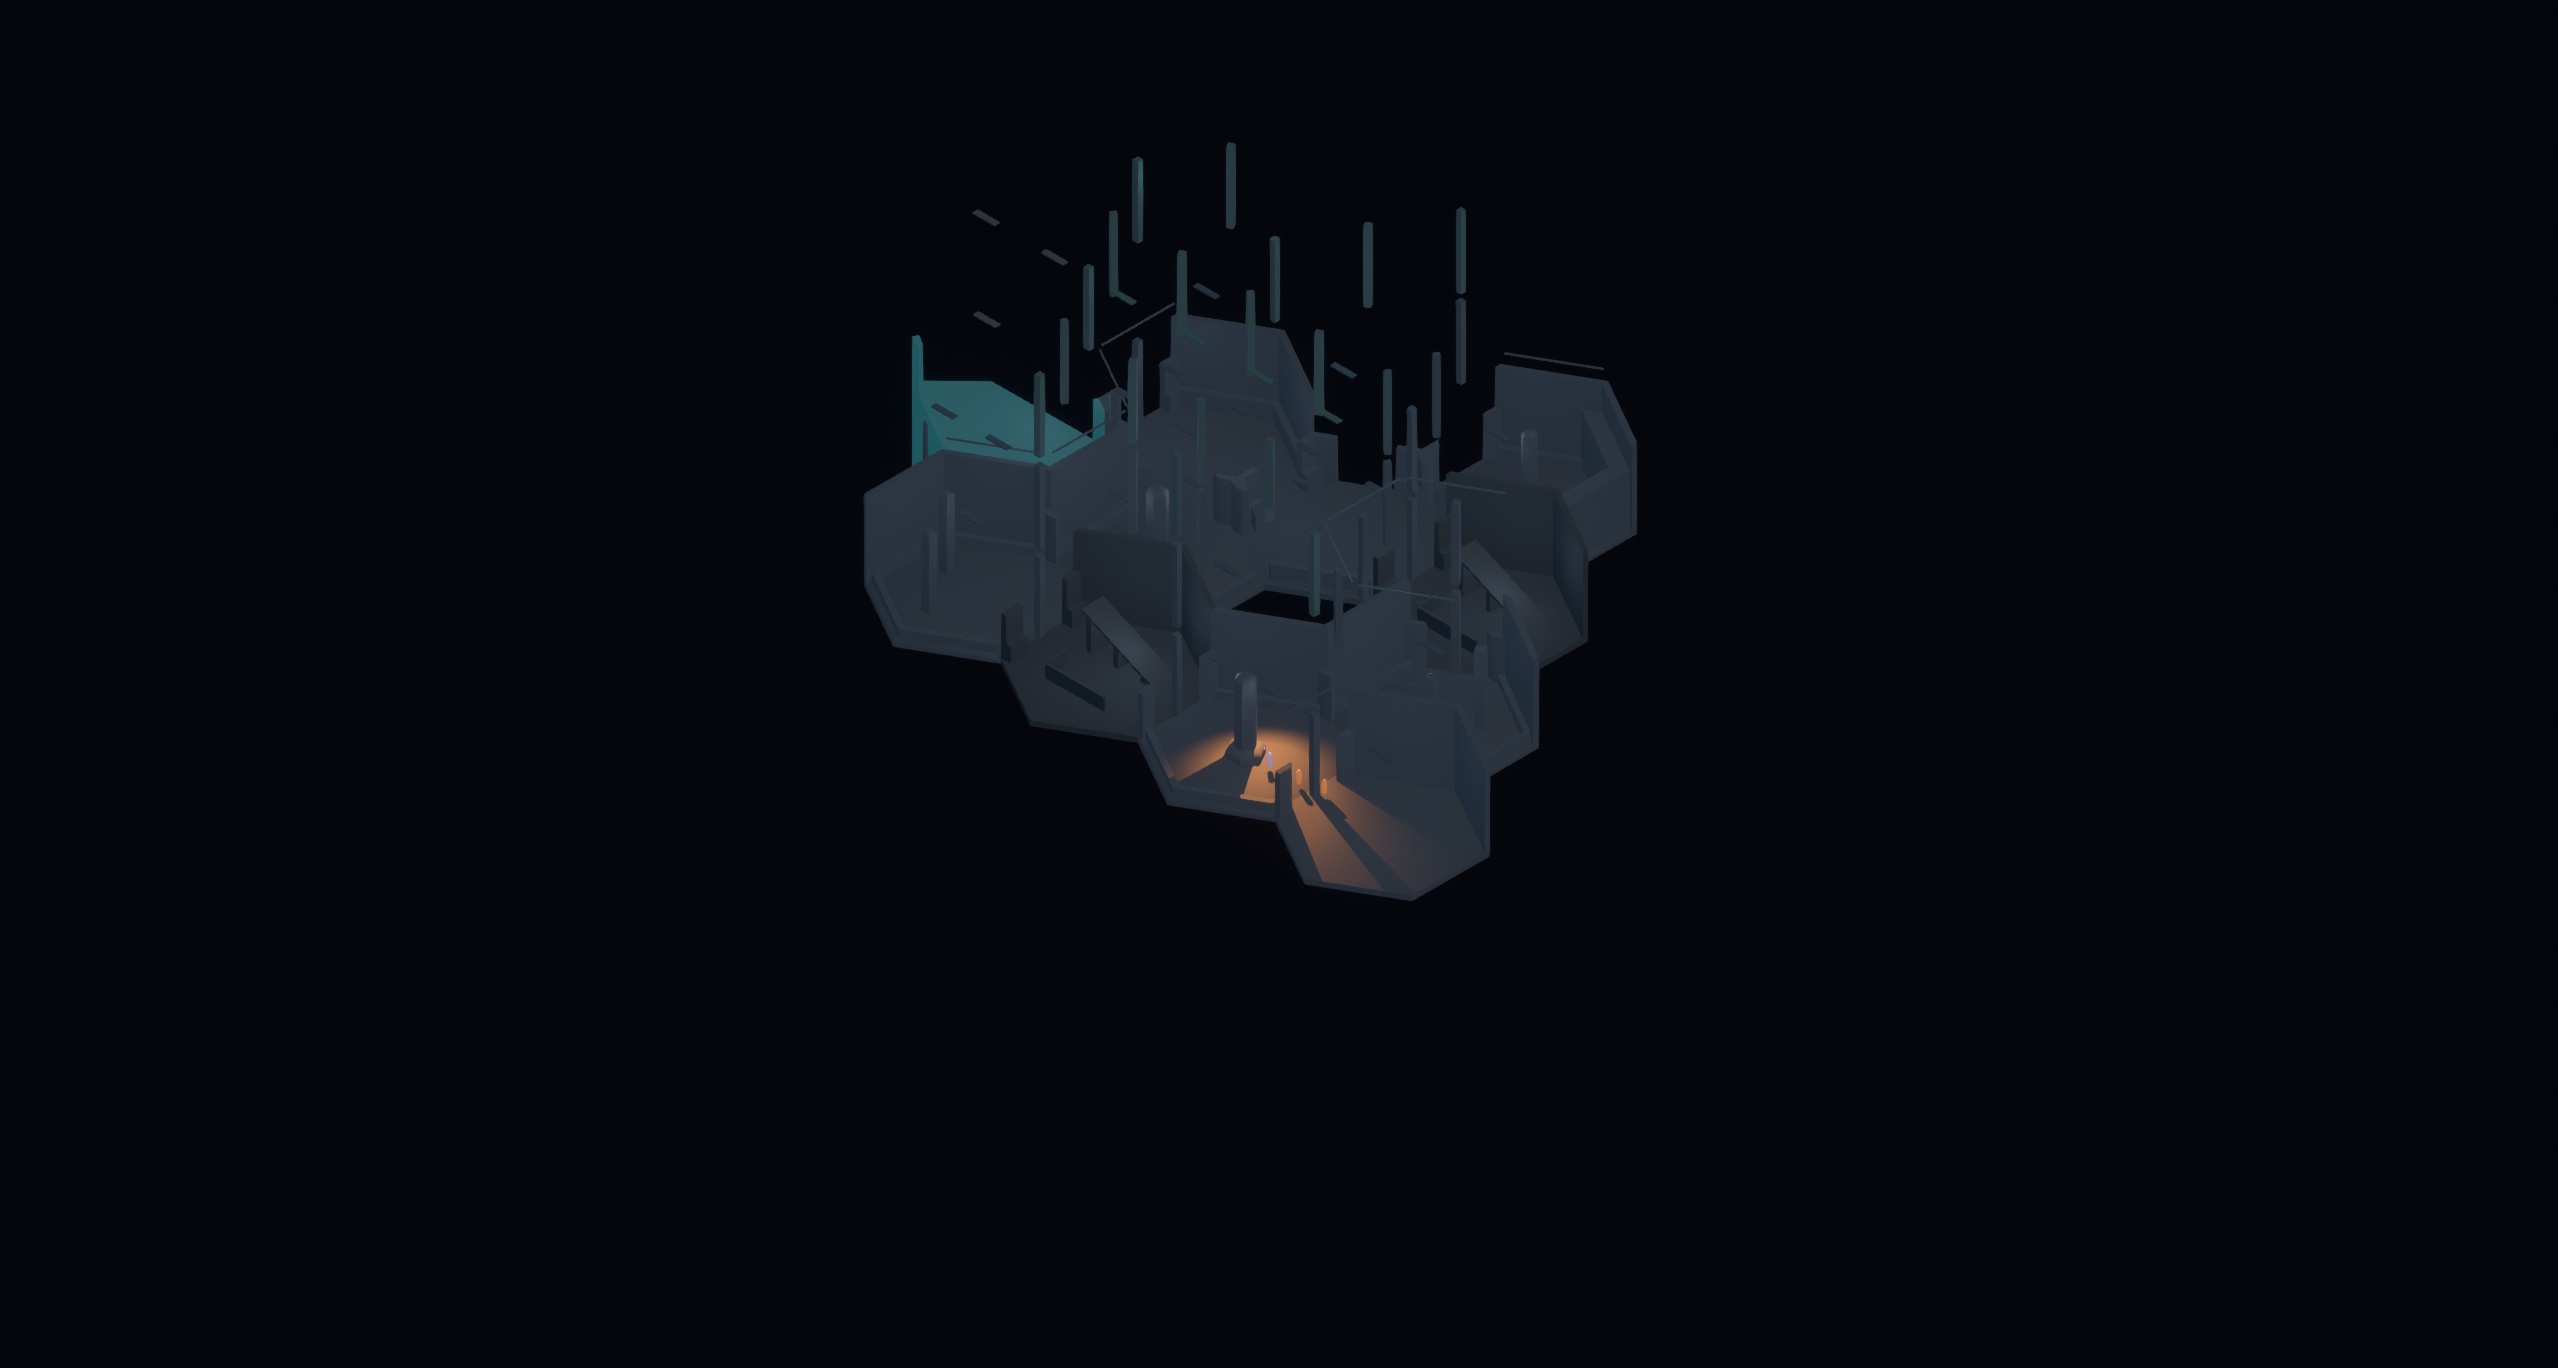
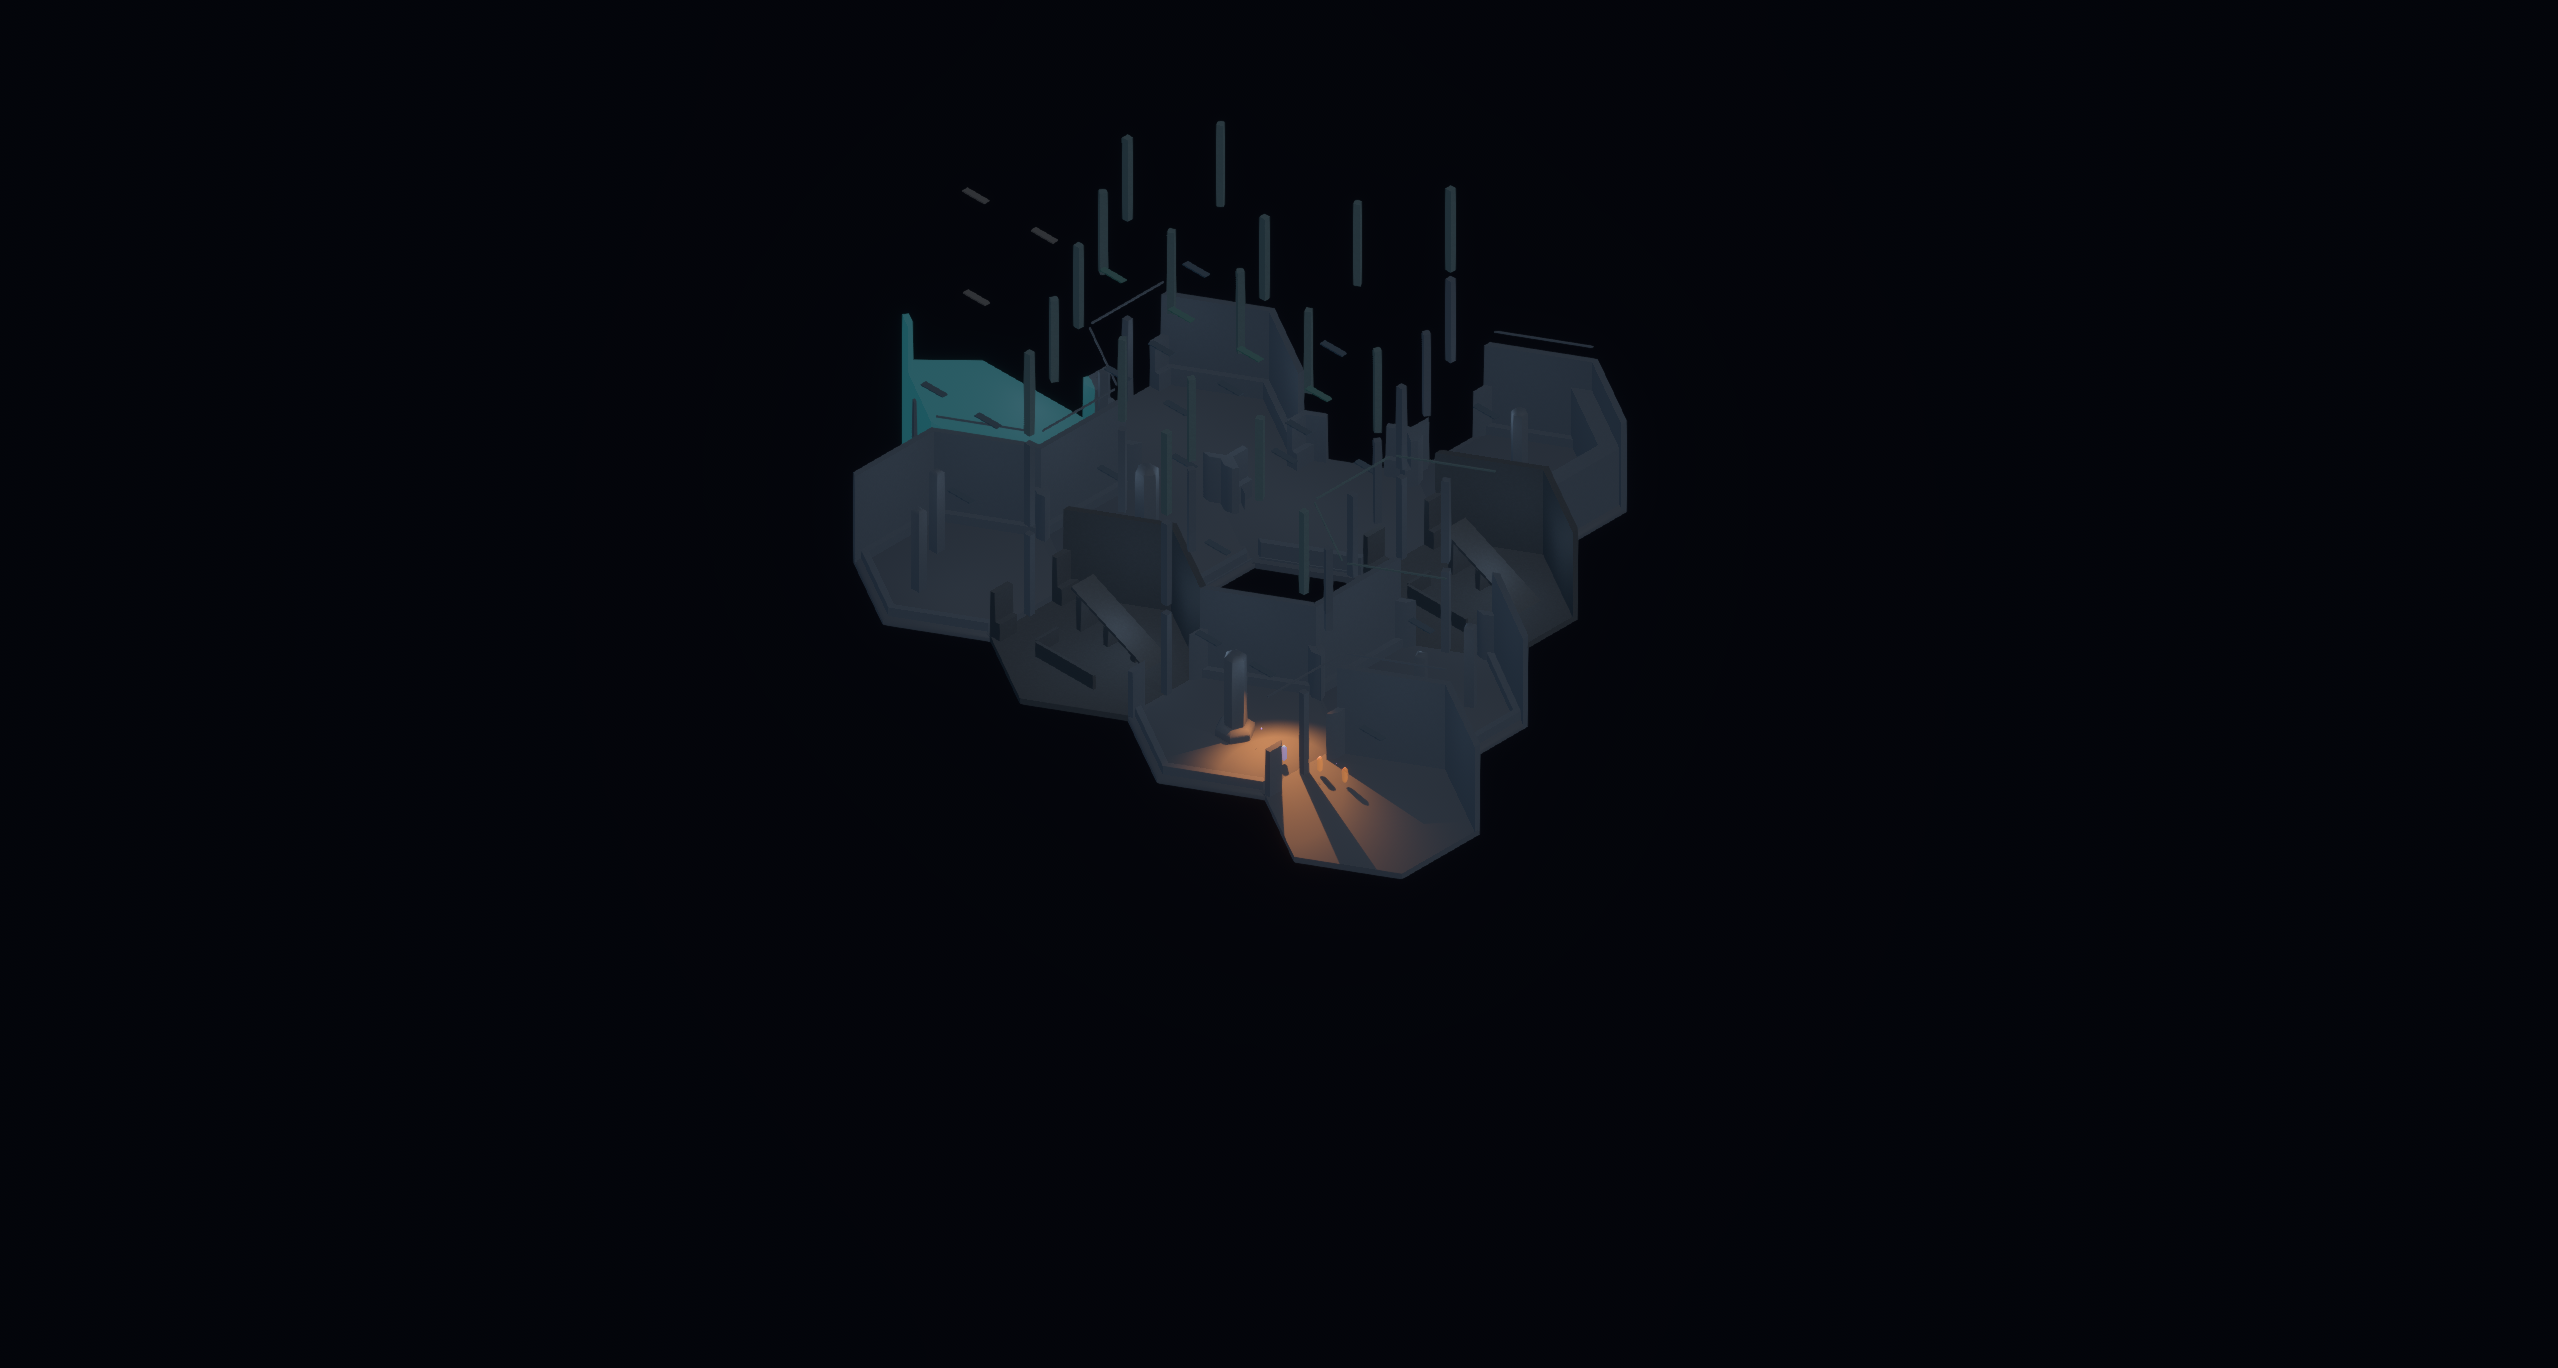
fix(hex): stop the ghost lights, and snap the view to the body's tile
**Ghost lights.** Only hulls were being filtered, never practicals, so every
resident cell's lights kept burning whatever storey they were on - and with
their geometry hidden they read as lights floating in the dark outside the
building. They are now judged by world height against the same band the hulls
use.

By height and not by cell, deliberately: a two-level tile's upper practical
carries the *base* cell, so a by-cell test would leave exactly the ghosts it was
meant to remove.

This also corrects something I got wrong earlier. The scattered dots in the
first overview captures were written off as facility-wide markers; they were
these, and that misreading cost a wrong guess during the framing hunt. The note
in docs/evidence/spectate/README.md is updated.

**Snap to the tile.** The view framed the body's own position, so a walking body
slid the whole facility under a fixed camera - unreadable at this scale and
unpleasant to watch. It now frames the centre of the body's cell, so the view
holds still while the body crosses a tile and steps once when the body does.

The spectate systems are grouped into their own tuple; the flat one had reached
Bevy's 21-system limit, and they are one concern anyway.

Keys are now documented in the README: O toggles, F cycles the body, R rotates a
detent, [ and ] dial the radius.

Still open: the thin verticals at the far side, which `5ffe59e` established are
low geometry on the body's own storey stranded by the cutaway, not bleed from
[…]

diff --git a/game/src/hex_wfc/view/spectate.rs b/game/src/hex_wfc/view/spectate.rs
@@ -328,10 +328,7 @@ pub(in crate::hex_wfc) fn sync_cutaway(
     // a wall on the floor above that dips a few centimetres into this one was
     // kept whole, which left thin stubs hanging in the air over the plan. The
     // midpoint puts each hull in exactly one storey.
-    let band = overview.active.then(|| {
-        let floor = f32::from(runtime.local().cell.level) * observed_hex::TILE_LEVEL_HEIGHT;
-        (floor, floor + observed_hex::TILE_LEVEL_HEIGHT)
-    });
+    let band = overview.active.then(|| storey(runtime.local().cell.level));
     for (hull, mut visibility) in &mut hulls {
         let off_level = band.is_some_and(|(low, high)| {
             let middle = (hull.min_y + hull.max_y) * 0.5 + hull.origin_y;
@@ -422,6 +419,57 @@ pub(in crate::hex_wfc) fn trace_cutaway(
     info!(
         "cutaway: floor={floor} ceiling={ceiling} interior={interior} near={near} far={far}          min_y={lowest:.2} max_y={highest:.2} | drawn={drawn}          from_other_level={from_other_level} high_in_band={high_in_band} body_level={body_level}"
     );
+}
+
+/// Hide the practicals that belong to storeys the overview is not drawing.
+///
+/// Lights were never filtered, only hulls, so every resident cell's practicals
+/// kept burning whatever storey they were on - and with their geometry hidden
+/// they read as lights floating in the dark outside the building. They are
+/// judged by world height against the same band the hulls use, not by their
+/// cell: a two-level tile's upper practical carries the *base* cell, so a
+/// by-cell test would leave exactly the ghosts it was meant to remove.
+pub(in crate::hex_wfc) fn sync_practicals(
+    runtime: Res<HexWfcRuntime>,
+    overview: Res<SpectatorOverview>,
+    mut practicals: Query<(&GlobalTransform, &mut Visibility), With<super::HexPractical>>,
+) {
+    let band = overview.active.then(|| storey(runtime.local().cell.level));
+    for (transform, mut visibility) in &mut practicals {
+        let wanted = match band {
+            Some((low, high)) => {
+                let y = transform.translation().y;
+                if y >= low && y < high {
+                    Visibility::Inherited
+                } else {
+                    Visibility::Hidden
+                }
+            }
+            None => Visibility::Inherited,
+        };
+        if *visibility != wanted {
+            *visibility = wanted;
+        }
+    }
+}
+
+/// The centre of a cell, in world space.
+///
+/// The overview frames *this* rather than the body's own position. Following a
+/// walking body means the whole facility slides continuously under a fixed
+/// camera, which is unreadable at this scale and unpleasant to watch; snapping
+/// to the tile means the view holds still while the body crosses it and steps
+/// once when the body does.
+#[must_use]
+pub(in crate::hex_wfc) fn tile_centre(cell: observed_facility::hex_wfc::HexCoord) -> Vec3 {
+    Vec3::from_array(hex_origin(cell))
+}
+
+/// The world height band a storey occupies.
+#[must_use]
+pub(in crate::hex_wfc) fn storey(level: u8) -> (f32, f32) {
+    let floor = f32::from(level) * observed_hex::TILE_LEVEL_HEIGHT;
+    (floor, floor + observed_hex::TILE_LEVEL_HEIGHT)
 }
 
 /// The box the facility occupies, from its own placements.

diff --git a/game/src/hex_wfc/mod.rs b/game/src/hex_wfc/mod.rs
@@ -97,11 +97,17 @@ impl Plugin for HexWfcPlugin {
                     view::sync_changed_geometry,
                     view::sync_streamed_cells,
                     view::sync_practical_shadow_budget,
-                    view::spectate::hotkeys,
-                    view::spectate::sync_detail_window,
-                    view::spectate::sync_cutaway,
-                    view::spectate::trace_cutaway,
-                    view::spectate::sync_key_light,
+                    // Grouped: the spectator overview is one concern, and the
+                    // flat tuple had reached Bevy's 21-system limit.
+                    (
+                        view::spectate::hotkeys,
+                        view::spectate::sync_detail_window,
+                        view::spectate::sync_cutaway,
+                        view::spectate::sync_practicals,
+                        view::spectate::trace_cutaway,
+                        view::spectate::sync_key_light,
+                    )
+                        .chain(),
                     view::sync_camera,
                     view::sync_projection,
                     view::sync_lighting_and_atmosphere,

diff --git a/game/src/hex_wfc/view/lighting.rs b/game/src/hex_wfc/view/lighting.rs
@@ -137,7 +137,7 @@ pub(in crate::hex_wfc) fn sync_camera(
     let iso = overview.as_ref().and_then(|overview| {
         super::spectate::framing_around(
             &runtime.match_state.facility,
-            player.position,
+            super::spectate::tile_centre(player.cell),
             overview.detent,
             overview.tile_radius,
             1600.0,
@@ -227,7 +227,7 @@ pub(in crate::hex_wfc) fn sync_projection(
             // box or they disagree about what is being looked at.
             super::spectate::framing_around(
                 &runtime.match_state.facility,
-                runtime.local().position,
+                super::spectate::tile_centre(runtime.local().cell),
                 overview.detent,
                 overview.tile_radius,
                 width,

diff --git a/docs/evidence/spectate/README.md b/docs/evidence/spectate/README.md
@@ -1,8 +1,20 @@
 # Spectator overview
 
-`O` opens it while spectating, `F` cycles the followed body, `R` rotates a
-detent. `OBSERVED2_SPECTATE_OVERVIEW=<detent>` opens it for capture, because a
-capture run has no keyboard.
+| key | does |
+|---|---|
+| `O` | toggle the overview (spectating only) |
+| `F` | cycle which body is followed |
+| `R` | rotate one detent - six, 60 degrees apart |
+| `[` / `]` | narrow / widen the tile radius, 2..12, default 3 |
+
+`OBSERVED2_SPECTATE_OVERVIEW=<detent>` opens it for capture, because a capture
+run has no keyboard. `OBSERVED2_SPECTATE_TRACE=1` logs the framing and a
+breakdown of what the cutaway kept and why.
+
+The view snaps to the *centre of the body's tile* rather than tracking the body
+itself: following a walking body slides the whole facility under a fixed camera,
+which is unreadable at this scale. Snapped, the view holds still while the body
+crosses a tile and steps once when the body does.
 
 ## What is shared with the studio, and what is not
 
